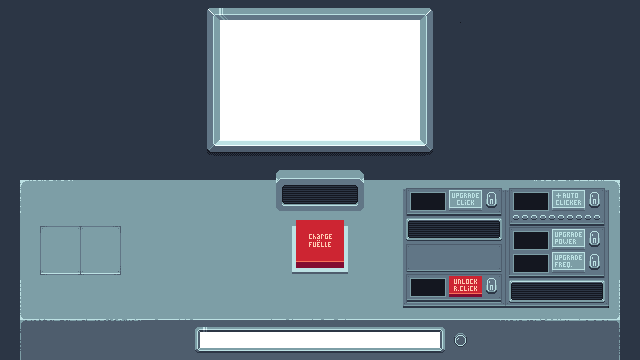
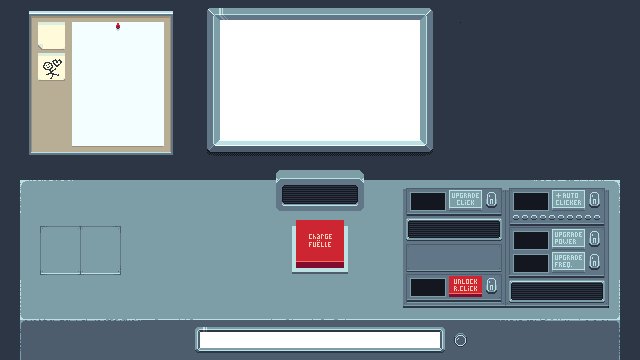
Equilibragee

Changed region(s): [[0.0312, 0.0306, 0.2812, 0.4278]]

diff --git a/src/modele/etat.py b/src/modele/etat.py
@@ -1,3 +1,5 @@
+import math
+
 from src.modele.autocliqueur import Autocliqueur
 
 # Classe gérant le score et les améliorations
@@ -17,6 +19,9 @@ class Etat:
         self.autocliqueur = Autocliqueur()
         self.stagiaire_appel = 0
         self.coffee_boost_end = 0
+        self.nb_upgrade_clic = 0
+        self.nb_upgrade_autoclic_val = 0
+        self.nb_upgrade_autoclic_cps = 0
 
     # Méthode gérant un clic sur le bouton principal
     def clic(self)-> None :
@@ -38,34 +43,44 @@ class Etat:
         return not self.clic_droit_debloque and self.score >= 1000
 
     # Méthode gérant l'amélioration de la valeur d'un clic
-    def add_valeur_clic(self, bonus: int = 1)-> None :
+    def add_valeur_clic(self, bonus: float = 1.22) -> None:
         if self.peut_add_valeur_clic():
-            self.score -= self.calc_prix(self.valeur_clic, "faible")
-            self.valeur_clic += bonus
+            self.score -= self.calc_prix(self.nb_upgrade_clic, "faible")
+            self.valeur_clic = math.ceil(self.valeur_clic * bonus)
+            self.nb_upgrade_clic += 1
     # Vérifie la possibilité d'améliorer la valeur du clic
-    def peut_add_valeur_clic(self)-> bool :
-        return self.score >= self.calc_prix(self.valeur_clic, "faible")
+    def peut_add_valeur_clic(self) -> bool:
+        return self.score >= self.calc_prix(self.nb_upgrade_clic, "faible")
 
     # Méthode gérant l'amélioration de la valeur de l'autoclic
-    def add_autoclic_val(self, bonus: int = 1)-> None :
+    def add_autoclic_val(self, bonus: float = 1.18) -> None:
         if self.peut_add_autoclic_val():
-            self.score -= self.calc_prix(self.autocliqueur.valeur, "faible")
-            self.autocliqueur.valeur += bonus
+            self.score -= self.calc_prix(self.nb_upgrade_autoclic_val, "faible")
+            self.autocliqueur.valeur = math.ceil(self.autocliqueur.valeur * bonus)
+            self.nb_upgrade_autoclic_val += 1
     # Vérifie la possibilité d'améliorer la valeur de l'autoclic
-    def peut_add_autoclic_val(self)-> bool :
+    def peut_add_autoclic_val(self) -> bool:
         return (self.autocliqueur.quantite > 0
-                and self.score >= self.calc_prix(self.autocliqueur.valeur, "faible"))
+                and self.score >= self.calc_prix(self.nb_upgrade_autoclic_val, "faible"))
+
 
     # Méthode gérant l'amélioration de la fréquence de l'autoclic
-    def add_autoclic_cps(self, t: int, bonus: int = 1)-> None :
+    def add_autoclic_cps(self, t: int, bonus: int = 1.18) -> None:
         if self.peut_add_autoclic_cps():
-            self.score -= self.calc_prix(self.autocliqueur.cps, "faible")
-            self.autocliqueur.cps += bonus
-            self.autocliqueur.temps_ref += int((t - self.autocliqueur.temps_ref) / self.autocliqueur.cps)
-    # Vérifie la possibilité d'améliorer la fréquence de l'autoclic
-    def peut_add_autoclic_cps(self)-> bool :
-        return (self.autocliqueur.quantite > 0
-                and self.score >= self.calc_prix(self.autocliqueur.cps, "faible"))
+            self.score -= self.calc_prix(self.nb_upgrade_autoclic_cps, "faible")
+            self.autocliqueur.cps = math.ceil(self.autocliqueur.cps * bonus)
+            self.autocliqueur.temps_ref += int(
+                (t - self.autocliqueur.temps_ref) / self.autocliqueur.cps
+            )
+            self.nb_upgrade_autoclic_cps += 1
+
+    def peut_add_autoclic_cps(self) -> bool:
+        return (
+                self.autocliqueur.quantite > 0
+                and self.score >= self.calc_prix(
+            self.nb_upgrade_autoclic_cps, "faible"
+        )
+    )
 
     # Méthode gérant l'amélioration du nombre d'autocliqueurs
     def add_autocliqueur(self, t: int, bonus: int = 1)-> None :
@@ -84,9 +99,9 @@ class Etat:
     def calc_prix(nb_up: int, libelle_cout: str) -> int :
         match libelle_cout:
             case "faible":
-                return int(10 * 1.5 ** nb_up)
+                return int(10 * 1.25 ** nb_up)
             case "moyen":
-                return 10 * 5 ** nb_up
+                return 100 * 20 ** nb_up
 
         return -1
         return self.autocliqueur.quantite < 10 and self.score >= self.PRIX_AMELIORATION[self.autocliqueur.quantite]

diff --git a/main.py b/main.py
@@ -103,17 +103,16 @@ def main():
             pygame.event.post(pygame.event.Event(GAME_END))
 
         # Affiche la progress bar
-        # TODO: Mettre le bon score max
-        ui.display_progress_bar(etat.score, 100)
+        ui.display_progress_bar(etat.score, 1000000000000000)
 
         # Affiche le bureau
         ui.display_background()
 
         # Affiche la lumière de la barre de progression
         # TODO: Mettre le bon score max
-        if 100 <= etat.score < 105:
+        if 1000000000000000 <= etat.score < 1500000000000000:
             ui.display_green_ligth()
-        elif etat.score >= 105:
+        elif etat.score >= 1500000000000000:
             ui.display_red_ligth()
 
         # Texte score
@@ -139,10 +138,10 @@ def main():
             ui.display_right_clic_button()
 
         # Prix
-        ui.display_clic_price(etat.calc_prix(etat.valeur_clic, "faible"))
+        ui.display_clic_price(etat.calc_prix(etat.nb_upgrade_clic, "faible"))
         ui.display_autoclicker_price(etat.calc_prix(etat.autocliqueur.quantite, "moyen"))
-        ui.display_power_price(etat.calc_prix(etat.autocliqueur.valeur, "faible"))
-        ui.display_frequency_price(etat.calc_prix(etat.autocliqueur.cps, "faible"))
+        ui.display_power_price(etat.calc_prix(etat.nb_upgrade_autoclic_val, "faible"))
+        ui.display_frequency_price(etat.calc_prix(etat.nb_upgrade_autoclic_cps, "faible"))
         ui.display_right_clic_price(1000)
 
         # Valeur du clic screen
